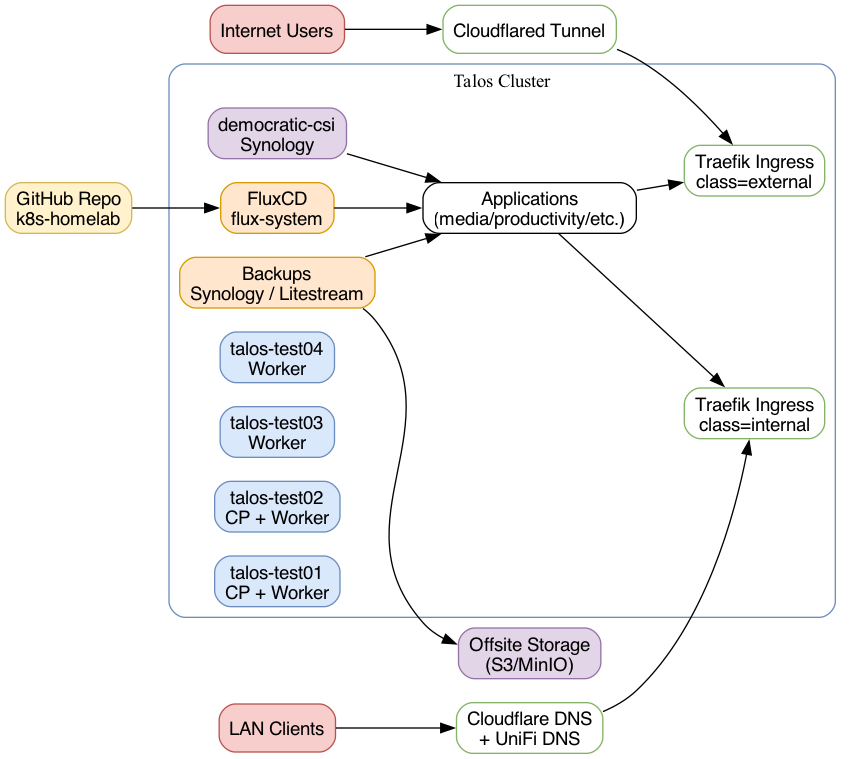
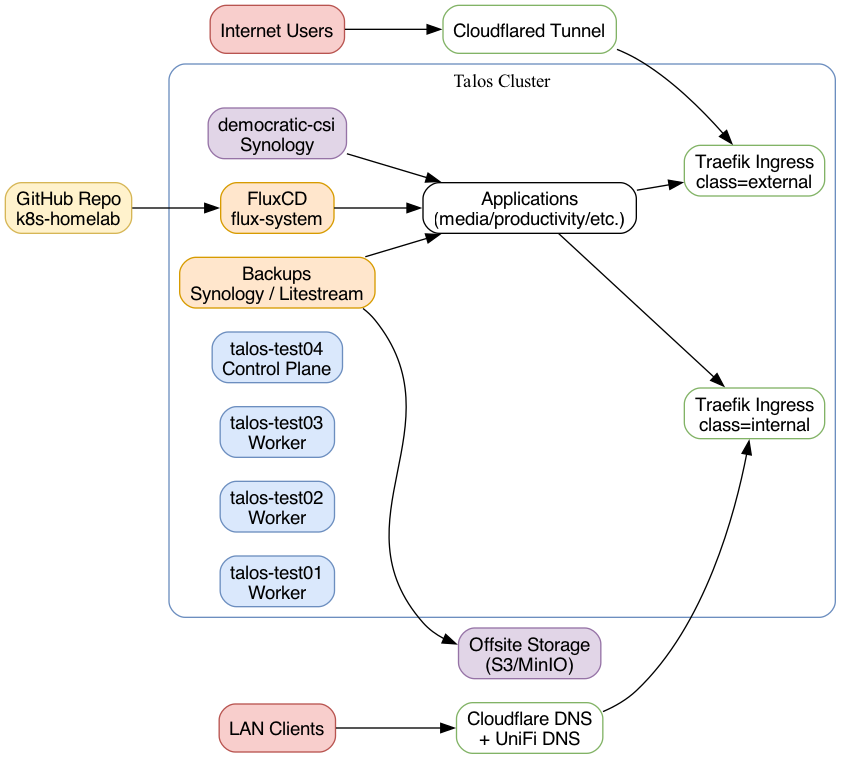
docs(talos): record completed SSD and control plane migration

Changed region(s): [[0.2444, 0.4242, 0.4277, 0.5152], [0.2444, 0.7273, 0.4277, 0.8182], [0.2444, 0.6364, 0.3972, 0.697]]

diff --git a/docs/talos-storage-migration.md b/docs/talos-storage-migration.md
@@ -1,18 +1,33 @@
 # Talos: SSD-Nutzung und Wechsel der Control Plane
 
-Stand: 2026-11-14. Nodes 1 und 2 verwenden `/var` auf SATA-SSD. Node 4 ist als
-zusätzliche Control Plane bereit und hat die API-VIP übernommen. Node 3 ist noch
-etcd-Mitglied; sein Rückbau zum SSD-Worker ist vorbereitet, aber noch nicht ausgeführt.
-Der aktuelle Ausführungsstand steht im Abschnitt „Pilot-Ausführung“.
+Stand: 2026-11-14. Die Migration ist abgeschlossen. Nodes 1, 2 und 3 sind
+SSD-Worker; Node 4 ist die einzige dedizierte Control Plane.
 
-Nach erfolgreichem Pilot wird `talos-test02` mit demselben Ziel-Layout vorbereitet.
+## Endgültiges Layout
+
+Alle Nodes booten weiterhin von eMMC. Die App-PVCs bleiben auf Synology-iSCSI.
+
+| Node | Rolle | EPHEMERAL / `/var` |
+| --- | --- | --- |
+| talos-test01 | Worker | SATA-SSD, `/dev/sda1`, 1 TB |
+| talos-test02 | Worker | SATA-SSD, `/dev/sda1`, 1 TB |
+| talos-test03 | Worker | SATA-SSD, `/dev/sda1`, 1 TB |
+| talos-test04 | dedizierte Control Plane | eMMC, `/dev/mmcblk0p6`, 29 GB |
+
+Node 4 trägt den Control-Plane-`NoSchedule`-Taint und hält exklusiv die API-VIP
+`192.168.13.10`. Der Talos-Client verwendet `192.168.13.14:50000`.
+Der [Abschluss der Gesamtmigration](#abschluss-der-gesamtmigration) enthält die
+Tests und Sicherungen. Die folgenden Abschnitte dokumentieren Ausgangslage und Ablauf.
+Die einzelnen Ausführungsetappen stehen ab „Pilot-Ausführung“.
+
+Nach erfolgreichem Pilot wurde `talos-test02` mit demselben Ziel-Layout vorbereitet.
 Seine SSD ist über `/dev/disk/by-id/ata-P3-1TB_0009478001526` eindeutig identifiziert.
 Die alte Longhorn-Partition wird erst nach dem Neustart und nachgewiesenem
 Aushängen gezielt gelöscht. Die Legacy-Disk-Konfiguration nicht vor dem Reset
 live entfernen: Auf Node 2 führte dies zu einem gegenseitigen Finalizer-Wartezustand
 der Talos-Volume-Controller. Ein erzwungener Neustart des bereits geleerten und
-gestoppten Workers löst diesen Zustand; anschließend Layout erneut prüfen und
-den selektiven EPHEMERAL-Reset bei Bedarf wiederholen.
+gestoppten Workers löste diesen Zustand; anschließend wurden Layout und selektiver
+EPHEMERAL-Reset erneut geprüft.
 
 ## Ausgangslage
 
@@ -338,9 +353,9 @@ alle System-DaemonSets sind bereit.
   erfolgreich, und der Webserver ist lokal erreichbar und Kubernetes-ready.
 - Alle vier Nodes sind Ready und uncordoned. CSI-Controller: 6/6 Container;
   CSI-Node-Pods der drei Worker: jeweils 4/4 Container.
-- Die Rollen sind unverändert: Node 3 bleibt die einzige dedizierte Control Plane,
-  Node 4 ein Worker. Der Control-Plane-Wechsel und die anschließende SSD-Nutzung
-  von Node 3 sind weiterhin eine eigene, noch nicht ausgeführte Etappe.
+- Zum Abschluss dieser Etappe waren die Rollen noch unverändert: Node 3 war die
+  einzige dedizierte Control Plane, Node 4 ein Worker. Der anschließende Rollenwechsel
+  ist im folgenden Abschnitt protokolliert.
 
 ## Control-Plane-Wechsel: Vorbereitung am 2026-11-14
 
@@ -406,6 +421,41 @@ alle System-DaemonSets sind bereit.
   im Prozessspeicher übergeben. `SOPS_AGE_KEY_CMD` muss dabei vollständig aus der
   Kindprozess-Umgebung entfernt werden; ein leerer Wert verursachte mit SOPS 3.13.3
   einen Parser-Absturz. Es wurde keine Age-Schlüsseldatei angelegt.
+
+## Abschluss der Gesamtmigration
+
+- Die etcd-Führung wurde vor dem Rückbau ausdrücklich von Node 3 an Node 4
+  übergeben. Anschließend verließ Node 3 etcd regulär als Follower; Node 4 blieb
+  als einziges stimmberechtigtes Mitglied gesund. Controller Manager und Scheduler
+  halten ihre Leader-Leases jetzt ebenfalls auf Node 4.
+- Node 3 behielt Boot, STATE und META. Sein etcd-Verzeichnis lag nachweislich
+  innerhalb der eMMC-EPHEMERAL-Partition; diese wurde selektiv zurückgesetzt.
+  Erst nach dem Worker-Boot und bestätigtem Unmount wurde die eindeutig identifizierte
+  alte Longhorn-Partition auf der SATA-SSD gelöscht. EPHEMERAL wurde danach automatisch
+  als XFS auf `/dev/sda1` provisioniert: 1.023.708.041.216 Bytes Kapazität,
+  921.068.800.113 Bytes für Pods einplanbar.
+- Die alten Control-Plane- und Load-Balancer-Ausschlusslabels sowie der alte
+  Control-Plane-Taint wurden auf Node 3 entfernt. Alle vier Nodes sind Ready und
+  uncordoned; nur Node 4 bleibt durch seinen regulären Control-Plane-Taint geschützt.
+- Ein eigener temporärer 1-GiB-PVC auf dem zunächst noch cordonierten Worker 3
+  bestätigte Schreiben, `sync` und Lesen (`CSI_WRITE_READ_OK`). Ein zweiter Pod
+  bestätigte persistentes Wiederlesen und Cluster-DNS (`DNS_AND_PERSISTENT_READ_OK`).
+  Beide Test-Pods, PVC, PV und Test-LUN wurden anschließend bereinigt.
+- Weave, Descheduler und Tuppr sind wieder mit ihren gesicherten ursprünglichen
+  Replikazahlen verfügbar. Zusätzlich wurden sämtliche Deployment- und StatefulSet-
+  Replikazahlen gegen die Baseline vor diesem Rollenwechsel verglichen: keine Abweichung.
+- Abschlussprüfung: alle aktiven Pods und DaemonSets bereit, alle Deployments und
+  StatefulSets verfügbar; 50/50 HelmReleases, 58/58 Kustomizations, 31/31 ExternalSecrets
+  und 7/7 SecretStores Ready. Alle drei Worker-CSI-Pods haben 4/4, der CSI-Controller
+  6/6 bereite Container.
+- Endgültiger externer etcd-Snapshot nach Wiederherstellung aller Replikazahlen:
+  330555424 Bytes; SHA-256
[1 lines of base64/hex data omitted]
+  endgültiger Talos-/Kubernetes-Clientzugang, Storage-Layout und Testnachweise liegen
+  geschützt auf dem Verwaltungsrechner unter `.private/control-plane-migration-20261114/`.
+- Das Zielbild bleibt eine einzelne Control Plane. Der Rollenwechsel schafft
+  Platz auf den Workern und nutzt die vorhandenen SATA-SSDs; er fügt keine
+  Control-Plane-Ausfalltoleranz hinzu. Große Image-Kaltstarts bleiben CPU-intensiv.
 
 ## Referenzen
 

diff --git a/docs/services/cluster-foundation.md b/docs/services/cluster-foundation.md
@@ -3,7 +3,7 @@
 ## Status & Überblick
 
 -   **Status**: Aktiv – Produktion (`admin@turingpi` kubeconfig-Kontext).
--   **OS / Nodes**: Talos Linux (ARM64) auf 4 Nodes (`talos-test01`–`04`) mit einer dedizierten Control Plane auf `talos-test03` und drei Workern.
+-   **OS / Nodes**: Talos Linux (ARM64) auf 4 Nodes (`talos-test01`–`04`) mit einer dedizierten Control Plane auf `talos-test04` und drei Workern.
 -   **Provisioning**: talhelper + `talos/talconfig.yaml`, direkte YAML-Manifeste (keine Templates mehr). Secrets via `talos/talsecret.sops.yaml`.
 -   **GitOps**: FluxCD hält sämtliche Manifeste synchron (siehe `docs/services/fluxcd.md`).
 -   **Netz**: Node-Netz `192.168.13.0/24`, Cluster API `192.168.13.10`, Pod CIDR `10.42.0.0/16`, Service CIDR `10.43.0.0/16`.
@@ -15,8 +15,8 @@
 | ------------ | ---------- | ------ | --------- | ----------------------------------- |
 | talos-test01 | 3.95 cores | 7.1 GB | Worker | `/var` auf lokaler SATA-SSD. |
 | talos-test02 | 3.95 cores | 7.1 GB | Worker | `/var` auf lokaler SATA-SSD. |
-| talos-test03 | 3.95 cores | 7.0 GB | Control Plane | Mit `NoSchedule`-Taint. |
-| talos-test04 | 3.95 cores | 7.1 GB | Worker | Kein SATA-/PCIe-SSD-Anschluss verfügbar. |
+| talos-test03 | 3.95 cores | 7.0 GB | Worker | `/var` auf lokaler SATA-SSD. |
+| talos-test04 | 3.95 cores | 7.1 GB | Control Plane | `/var` auf eMMC, `NoSchedule`-Taint; API-VIP und etcd. |
 
 > Siehe `RESOURCE_ANALYSIS.md` für VPA-Empfehlungen; Node-spezifische Labels/taints bitte hier ergänzen.
 
@@ -39,9 +39,11 @@ bei vielen gleichzeitigen Starts zu entlasten. Die Einstellung liegt in
 und anschließend nodeweise ohne Reboot angewendet. Ein kurzer Kubelet-Neustart
 ist dabei möglich. Siehe [Stabilisierungs-Runbook](../runbooks.md#cm4-langsame-pod-starts-und-helm-retry-schleifen).
 
-SSD-Migration vom 2026-11-13/14: `talos-test01` und `talos-test02` booten weiterhin
-von eMMC, verwenden für `EPHEMERAL` beziehungsweise `/var` aber jeweils die lokale
-1-TB-SATA-SSD (`/dev/sda1`). Nodes 3 und 4 wurden noch nicht auf dieses Layout umgestellt.
+SSD-Migration vom 2026-11-13/14: `talos-test01`, `talos-test02` und `talos-test03`
+booten weiterhin von eMMC und verwenden für `EPHEMERAL` beziehungsweise `/var`
+jeweils die lokale 1-TB-SATA-SSD (`/dev/sda1`). `talos-test04` ist die einzige
+dedizierte Control Plane und nutzt eMMC. Talos-Endpunkt: `192.168.13.14:50000`;
+die Kubernetes-API bleibt unter der VIP `192.168.13.10:6443`.
 Durchführung und iSCSI-/DNS-Tests stehen im [Migrationsprotokoll](../talos-storage-migration.md#ergebnis-von-node-1).
 
 1. **Upgrades**

diff --git a/docs/CHANGELOG.md b/docs/CHANGELOG.md
@@ -4,6 +4,13 @@
 
 ## 2026-11-14
 
+- Gesamtmigration abgeschlossen: drei SSD-Worker, Node 4 als einzige dedizierte
+  Control Plane mit API-VIP. Node 3 regulär aus etcd entfernt und auf SATA-EPHEMERAL
+  umgestellt. iSCSI-/DNS-Tests, Wiederherstellung aller pausierten Replikazahlen und
+  abschließender externer Snapshot erfolgreich; alle GitOps- und Secret-Ressourcen bereit.
+  Node-Inventar und Architekturdiagramme aktualisiert; siehe
+  [Abschlussprotokoll](talos-storage-migration.md#abschluss-der-gesamtmigration).
+
 - Node 4 ist als zusätzliche Control Plane bereit und übernimmt die gemeinsame
   API-VIP. etcd-Synchronisation, API-Readiness und DNS-Umzug erfolgreich geprüft;
   zweiter externer Snapshot erstellt. Node 3 ist für den anschließenden Rückbau
